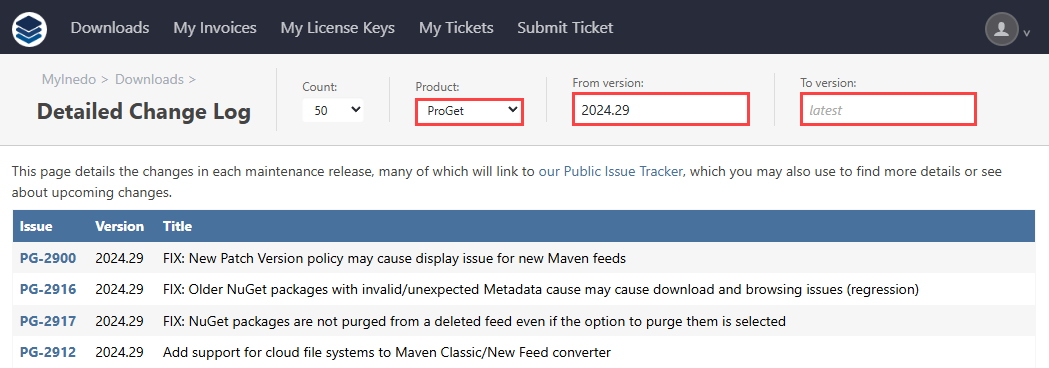
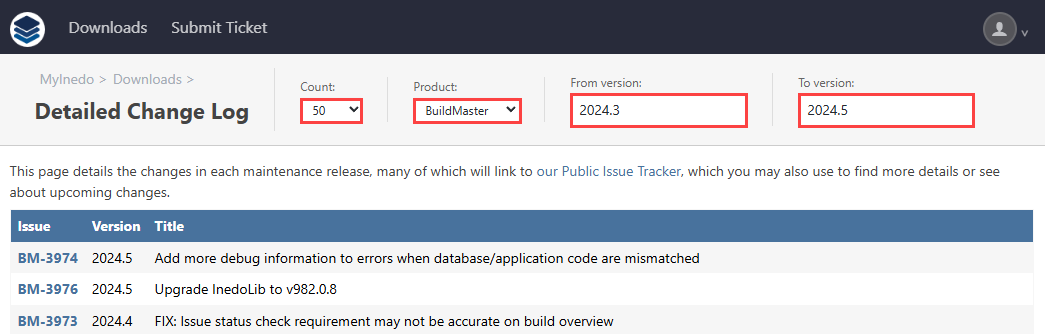
updated view change logs page after initial draft feedback

diff --git a/Content/myinedo/view-change-logs.md b/Content/myinedo/view-change-logs.md
@@ -1,37 +1,37 @@
 ---
-title: "Change Logs"
+title: "Viewing Change Logs"
 order: 9
 ---
 
- For your convenience, we offer a Detailed Change Log for ProGet, BuildMaster, and Otter. The Detailed Change Log will support your experience by providing easy access to important updates and improvements to our products.
+ The Detailed Change Log is a tool that gives you visibility and control over your Inedo products. Viewing change logs helps you make informed decisions about how, when, and why to upgrade. Checking the change logs lets you stay ahead of potential issues and ensures a smoother workflow.
 
- This article will explain how to access the Detailed Change Log through MyInedo. 
+ In this article we'll cover how you can track your product changes with the Detailed Change Log.
 
- ## Viewing Change Logs
-To access the Detailed Change Log through MyInedo, click on “Downloads” on the top of the MyInedo webpage.
+ ## Using the Detailed Change Log to Track Changes
+The Detailed Change Log can be accessed through <a href="https://my.inedo.com/downloads/issues">MyInedo</a>.
 
 ![MyInedo](/resources/docs/myinedo-viewingchangelogs-myinedo.png){height="" width="50%"}
 
-You will then be redirected to the Inedo Product Downloads page. Select “Upgrade Guidance & Change Notes”.
+### Assess the Changes and Prioritize Accordingly
+Words such as <b>fix</b> assist in quickly pinpointing changes that resolve any issues you might be experiencing. If your ProGet feed has been experiencing replication issues, you can prioritize updates that specifically address these bugs.
 
-![Downloads](/resources/docs/myinedo-viewingchangelogs-downloads.png){height="" width="50%"}
+<b>Add</b> and similar words help you easily spot changes that could improve your workflow. If a new feature in BuildMaster could help you streamline your deployment process, you might want to upgrade sooner than later.
 
-Click on “Explore Detailed Change Logs” on the Upgrade Guidance window to view the Detailed Change Logs page.
+### Understanding the Scope of Change
+When upgrading any of your Inedo products to the latest version, we recommend reading the upgrade notes, as they usually come with significant changes in several areas. If you're updating BuildMaster to the latest release, SDK modifications may require rebuilding custom extensions to maintain your current setup.
 
-![Upgrade Guidance](/resources/docs/myinedo-viewingchangelogs-upgradeguidance.png){height="" width="50%"}
-
-You will see a list of our products change logs with their issue number and version.
-
-![Detailed Change Log](/resources/docs/myinedo-viewingchangelogs-detailedchangelog.png){height="" width="50%"}
-
-You can select and filter the change logs by product or version.
+### Filter the Changes
+You can filter the change logs by count, product, and version to quickly locate any issues with your product.
 
 ![Detailed Change Log Filters](/resources/docs/myinedo-viewingchangelogs-detailedchangelogfilters.png){height="" width="50%"}
 
-To view a change log and its update in more detail, click on an issue which will redirect you to its corresponding YouTrack page.
-
-![Detailed Change Log Issue](/resources/docs/myinedo-viewingchangelogs-detailedchangelogissue.png){height="" width="50%"}
-
-From here you can see the timeline and details of the added feature or issue fix.
+## Using our Public Issue Tracker to View Changes in Detail
+Each update links to our <a href="https://issues.inedo.com/dashboard?id=87c77108-8027-4453-aa65-15e83cf8782e&_gl=1*m68oqx*_gcl_au*NTUyMjMzOTM0LjE3NDE1ODEzMzM.">Public Issue Tracker</a> with more detailed information on the change.
 
 ![YouTrack](/resources/docs/myinedo-viewingchangelogs-youtrack.png){height="" width="50%"}
+
+You can view the complete timeline of the issue, including when it started, when it was resolved, and the release version it was addressed. This information allows you to determine if an immediate upgrade is necessary to fix the issue or if it can wait until your next scheduled update.
+
+You can see the issue's status. If the log shows the state as "completed", this lets you know the change has been implemented in the latest release, helping you decide the best time to schedule an update for your system.
+
+See [Upgrading your Inedo Product](/docs/installation/upgrading) documentation for information on product upgrades.
